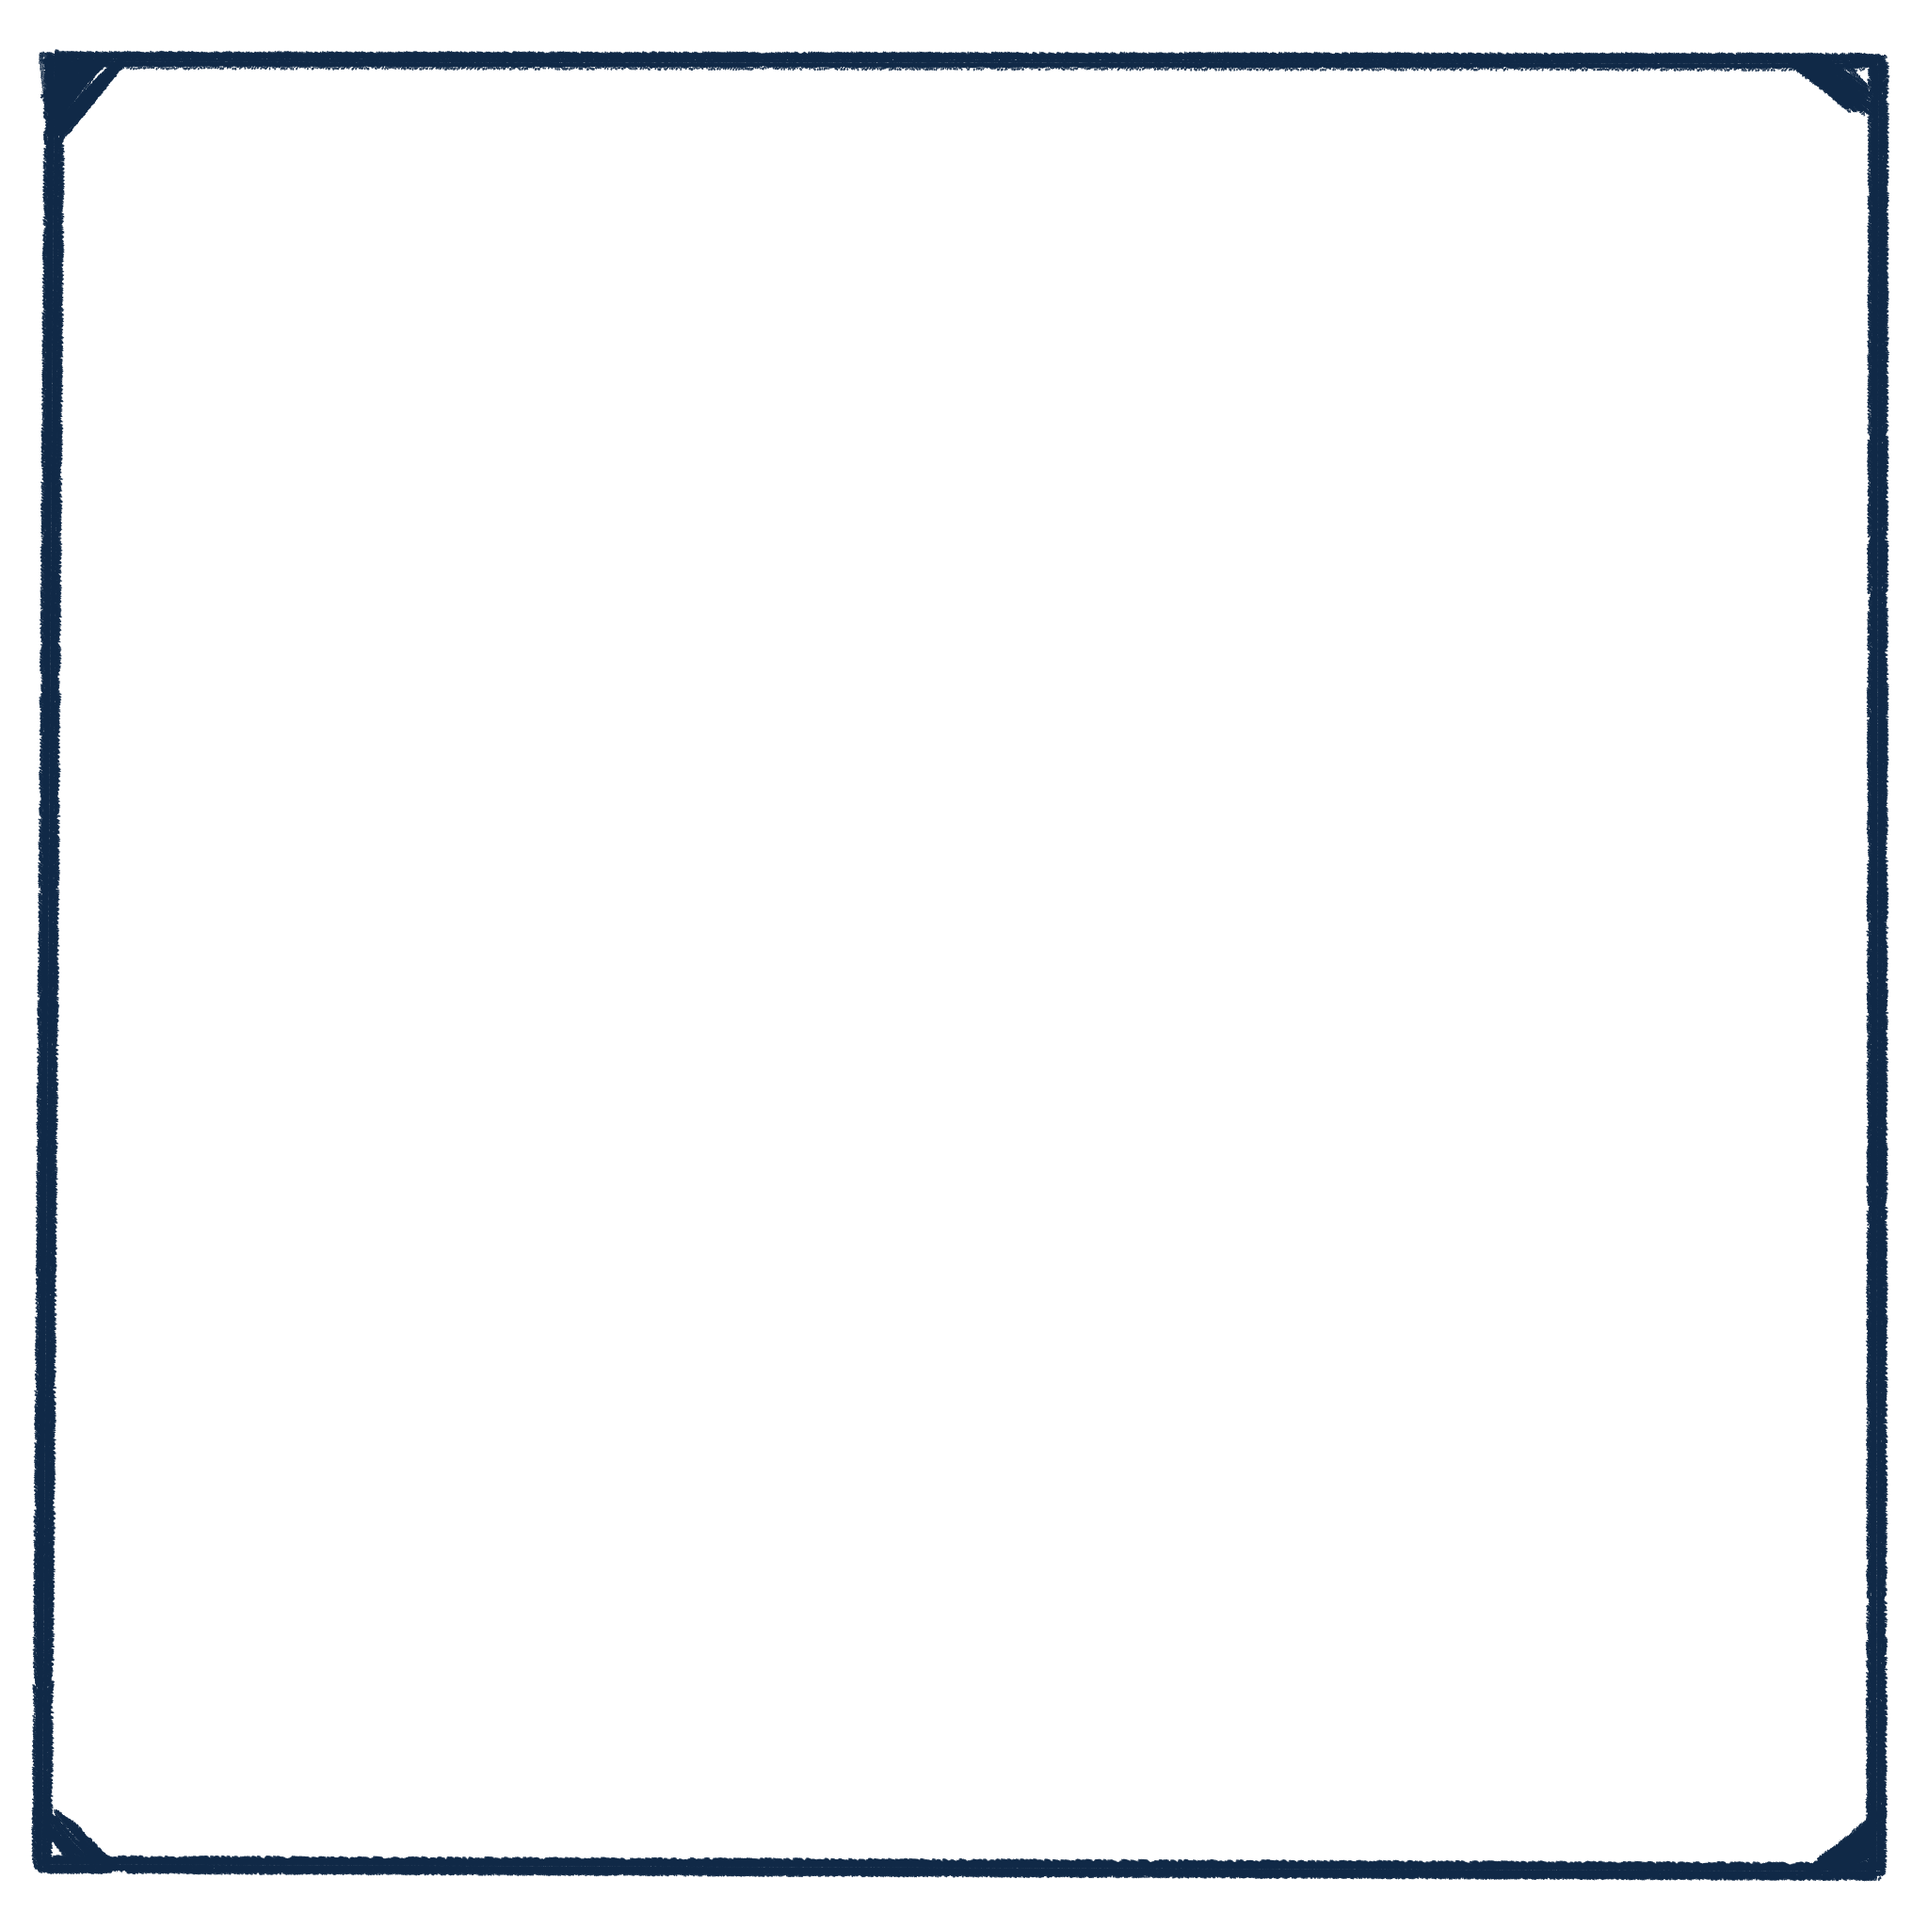
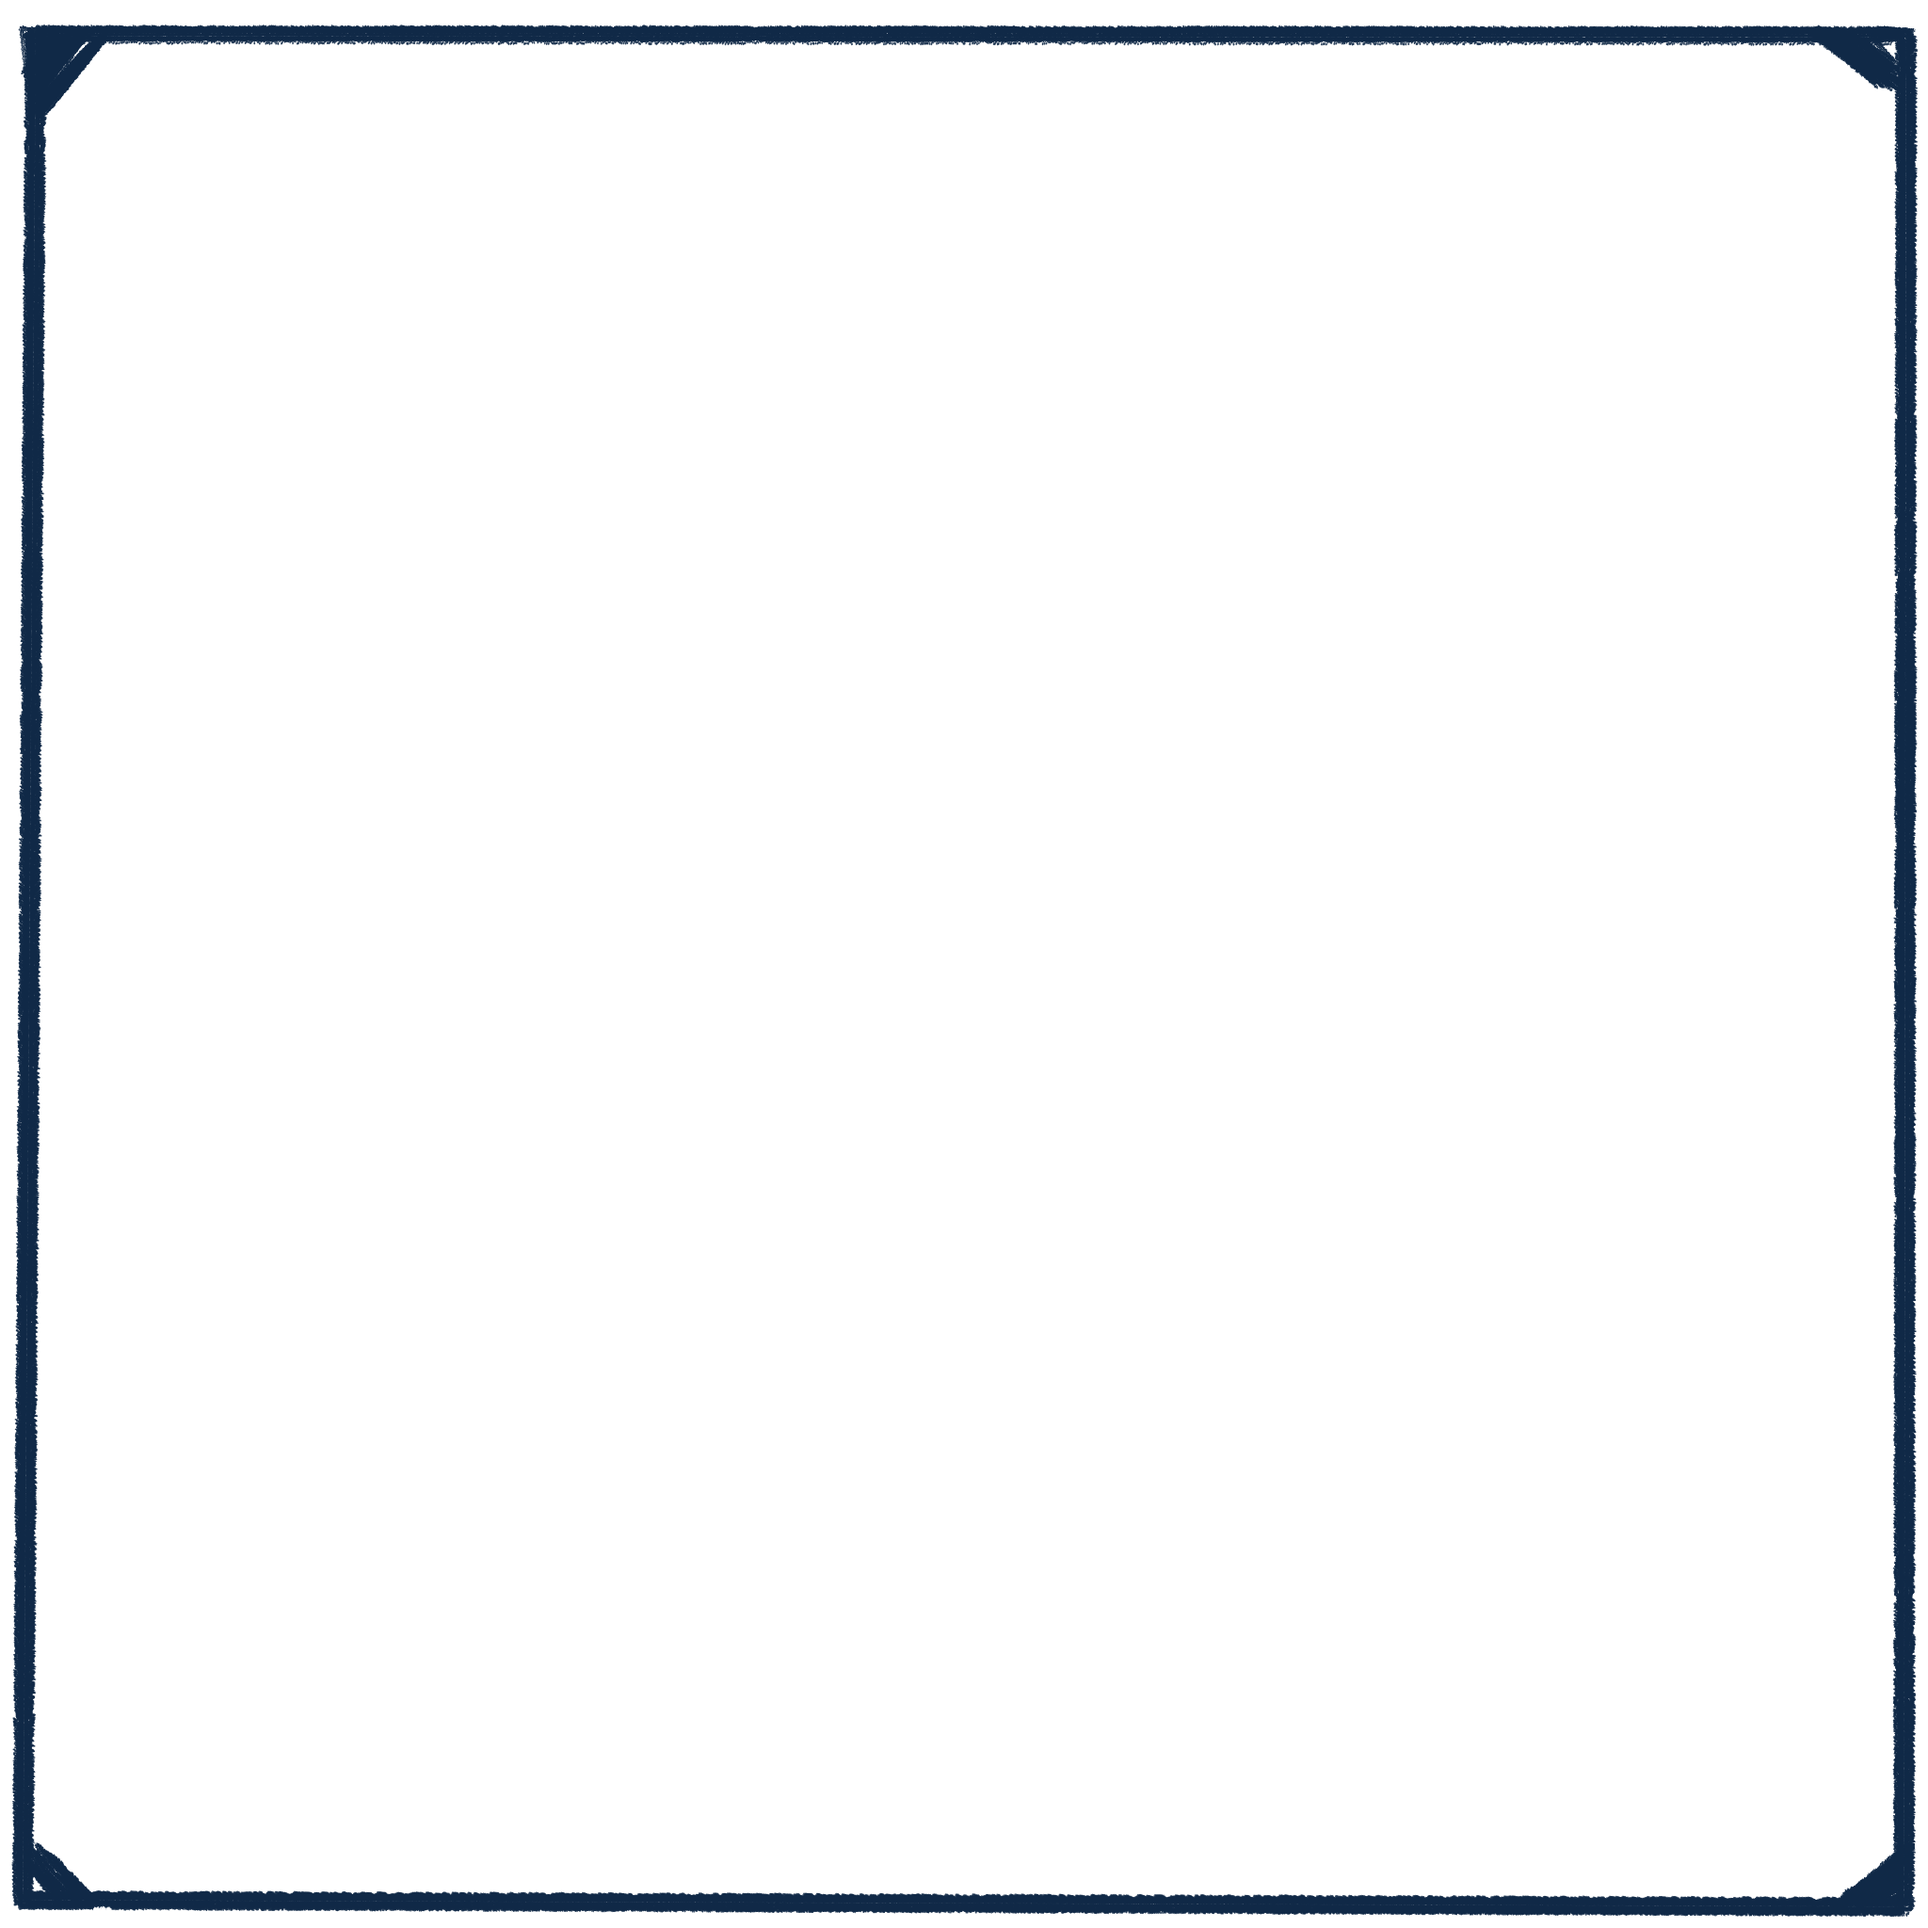
added water level

Changed region(s): [[0.0, 0.0, 1.0, 1.0]]

diff --git a/game.js b/game.js
@@ -11,7 +11,7 @@ const STATUS_Y_OFFSET = 30;
 
 // Game rules
 const MAX_BUGS_ON_SCREEN = 20;
-const MAX_ESCAPED_CATS = 20;
+const MAX_ESCAPED_CATS = 40; // 40 / 2 * 5% = 100% — вода заливает поле
 
 // Bug visuals
 const IMAGE_SCALE = 2.1875;   // базовый скейл ботинка
@@ -22,7 +22,7 @@ const ROTATE_DEG = 30;        // ±30 градусов
 // Spawn speed (geometric progression)
 const SPAWN_INTERVAL_START_MS = 900;
 const SPAWN_INTERVAL_MULTIPLIER = 0.970; // ближе к 1.0 = медленнее ускоряется
-const SPAWN_INTERVAL_MIN_MS = 150;
+const SPAWN_INTERVAL_MIN_MS = 250;
 const CLICK_SPEEDUP_FACTOR = 0.968;
 
 // Defeat image sizing
@@ -34,6 +34,9 @@ const DEFEAT_IMG_Y_OFFSET = 0;
 const DEFEAT_SRC = "assets/defeat.png";
 const CAT_COUNT = 5;
 const CAT_PREFIX = "assets/cat";
+const WATER_LEVEL_SRC = "assets/Water_level.png";
+const WATER_LEVEL_TOP_SRC = "assets/Water_level_top.png";
+const WATER_LEVEL_STEP = 0.05;   // +5% высоты канваса за каждых 2 пропущенных кота
 
 /* =========================
    GAME STATE
@@ -49,18 +52,25 @@ let gameOver = false;
 let escapedCats = 0;
 let lastCatIndex = -1;
 
+// water level animation
+let waterCurrentY = canvas.height; // текущая Y позиция (верх изображения)
+let waterTargetY  = canvas.height; // целевая Y позиция
+let waveClock     = 0;             // время для покачивания верхнего слоя
+
 // spawn control
 let spawnInterval = SPAWN_INTERVAL_START_MS;
 let spawnTimerId = null;
 
 // preload
+const waterLevelImg = new Image();
+const waterLevelTopImg = new Image();
 const defeat = new Image();
 const defeat1 = new Image();
 let defeatAltFrame = false;
 let hoverDefeat = false;
 const cats = [];
 
-let assetsToLoad = 2 + CAT_COUNT; // defeat + defeat1 + cats
+let assetsToLoad = 4 + CAT_COUNT; // waterLevel + waterLevelTop + defeat + defeat1 + cats
 let assetsLoaded = 0;
 let readyToStart = false;
 
@@ -117,6 +127,9 @@ function resetRunState(){
   gameOver = false;
   escapedCats = 0;
   lastCatIndex = -1;
+  waterCurrentY = canvas.height;
+  waterTargetY  = canvas.height;
+  waveClock     = 0;
 
   spawnInterval = SPAWN_INTERVAL_START_MS;
   stopSpawning();
@@ -168,6 +181,14 @@ function stopLoadingDots(){
     loadingDotsTimerId = null;
   }
 }
+
+waterLevelImg.onload = markLoaded;
+waterLevelImg.onerror = markLoaded;
+waterLevelImg.src = WATER_LEVEL_SRC;
+
+waterLevelTopImg.onload = markLoaded;
+waterLevelTopImg.onerror = markLoaded;
+waterLevelTopImg.src = WATER_LEVEL_TOP_SRC;
 
 defeat.onload = markLoaded;
 defeat.onerror = markLoaded;
@@ -221,6 +242,8 @@ function spawnBug(){
 
   // базовый размер с jitter ±20%
   const baseSize = Math.max(10, Math.floor(BASE_BUG_SIZE * IMAGE_SCALE));
+  const sizeMin = Math.floor(baseSize * (1 - SIZE_JITTER));
+  const sizeMax = Math.floor(baseSize * (1 + SIZE_JITTER));
   const size = Math.max(10, Math.floor(baseSize * randf(1 - SIZE_JITTER, 1 + SIZE_JITTER)));
 
   // угол ±30°
@@ -235,12 +258,14 @@ function spawnBug(){
   const img = cats[catIndex];
 
   // позиция так, чтобы не вылезало (с учётом size)
- const x = Math.random() * (canvas.width - size);
+  const x = Math.random() * (canvas.width - size);
 
-/* появляется немного выше поля */
-const y = -size;
+  /* появляется немного выше поля */
+  const y = -size;
 
-const vy = randf(2.5, 4.5);  // скорость падения
+  // чем больше кот, тем быстрее падает
+  const t = (size - sizeMin) / (sizeMax - sizeMin);
+  const vy = 2.5 + t * 2.0;
 
 bugs.push({ x, y, size, img, rot, vy });
 }
@@ -329,27 +354,23 @@ canvas.addEventListener("touchstart", (e) => {
 
 function clearField(){
   ctx.clearRect(0,0,canvas.width, canvas.height);
-  ctx.fillStyle = "rgba(210,220,238,0.85)";
+  ctx.fillStyle = "rgba(239,243,249,0.85)";
   ctx.fillRect(0,0,canvas.width, canvas.height);
 }
 
 function drawHUD(){
   const hx = canvas.width * 0.02 + 14;
   const hy = canvas.height * 0.02;
-  const scoreY  = 32 + hy;
-  const escapedY = 56 + hy;
+  const scoreY = 32 + hy;
 
-  // measure text widths to size the background pill
   ctx.font = "28px 'Fredoka One', cursive";
   const scoreW = ctx.measureText(`Score: ${score}`).width;
-  ctx.font = "18px 'Fredoka One', cursive";
-  const escapedW = ctx.measureText(`Escaped: ${escapedCats}/${MAX_ESCAPED_CATS}`).width;
 
   const padX = 10, padY = 7;
   const boxX = hx - padX;
-  const boxY = scoreY - 22 - padY;           // ~cap-height above score baseline
-  const boxW = Math.max(scoreW, escapedW) + padX * 2;
-  const boxH = (escapedY - scoreY + 18) + padY + (padY + 4);  // span both lines + padding
+  const boxY = scoreY - 22 - padY;
+  const boxW = scoreW + padX * 2;
+  const boxH = 22 + padY * 2 + 4;
 
   ctx.fillStyle = "rgba(255,255,255,0.52)";
   ctx.beginPath();
@@ -365,13 +386,47 @@ function drawHUD(){
   ctx.textAlign = "left";
   ctx.fillText(`Score: ${score}`, hx, scoreY);
 
-  ctx.fillStyle = "#254160";
-  ctx.font = "18px 'Fredoka One', cursive";
-  ctx.fillText(`Escaped: ${escapedCats}/${MAX_ESCAPED_CATS}`, hx, escapedY);
   ctx.shadowColor = "transparent";
   ctx.shadowOffsetX = 0;
   ctx.shadowOffsetY = 0;
   ctx.shadowBlur = 0;
+}
+
+function drawWaterLevel(){
+  if(!waterLevelImg.complete || waterLevelImg.naturalWidth === 0) return;
+
+  const imgH = waterLevelImg.naturalHeight * (canvas.width / waterLevelImg.naturalWidth);
+
+  // целевая Y: изображение двигается вверх целиком
+  const steps = Math.floor(escapedCats / 2);
+  const rawTarget = canvas.height - steps * WATER_LEVEL_STEP * canvas.height;
+
+  // cap: верх изображения не уходит выше чем 120% его высоты от низа канваса
+  waterTargetY = Math.max(rawTarget, canvas.height - imgH * 1.2);
+
+  // плавный лерп к цели
+  waterCurrentY += (waterTargetY - waterCurrentY) * 0.04;
+
+  if(waterCurrentY >= canvas.height) return; // ещё не видна
+
+  ctx.save();
+  ctx.globalCompositeOperation = 'multiply';
+  ctx.beginPath();
+  ctx.rect(0, 0, canvas.width, canvas.height);
+  ctx.clip();
+  ctx.drawImage(waterLevelImg, 0, waterCurrentY, canvas.width, imgH);
+  if(waterLevelTopImg.complete && waterLevelTopImg.naturalWidth > 0){
+    const scale   = 1.2;
+    const topImgW = canvas.width * scale;
+    const topImgH = waterLevelTopImg.naturalHeight * (topImgW / waterLevelTopImg.naturalWidth);
+    // покачивание ±5% ширины канваса
+    waveClock += 0.0135; // на 25% медленнее (0.018 * 0.75)
+    const waveX   = Math.sin(waveClock) * canvas.width * 0.05;
+    const topImgX = -(topImgW - canvas.width) / 2 + waveX;
+    const topImgY = waterCurrentY - canvas.height * 0.10; // на 10% выше основного уровня
+    ctx.drawImage(waterLevelTopImg, topImgX, topImgY, topImgW, topImgH);
+  }
+  ctx.restore();
 }
 
 function drawBug(b){
@@ -396,7 +451,8 @@ function drawBugs(){
     if(b.y > canvas.height){
       bugs.splice(i, 1);
       escapedCats++;
-      if(escapedCats >= MAX_ESCAPED_CATS && !gameOver){
+      const waterFill = Math.floor(escapedCats / 2) * WATER_LEVEL_STEP;
+      if(waterFill >= 1.0 && !gameOver){
         gameOver = true;
         stopSpawning();
         if(countdownTimerId) clearInterval(countdownTimerId);
@@ -471,9 +527,10 @@ function loop(){
   clearField();
 
   if(!gameOver){
-  
+
     if(readyToStart && !countdownActive){
       drawBugs();
+      drawWaterLevel();
       drawHUD();
     } else {
       drawCenterOverlay();
@@ -481,6 +538,7 @@ function loop(){
     }
   } else {
     drawBugs();
+    drawWaterLevel();
     drawHUD();
     drawGameOver();
   }

diff --git a/style.css b/style.css
@@ -87,26 +87,16 @@ body{
   box-shadow: 0 10px 30px rgba(0,0,0,0.35);
 }
 
-/* border ornament rendered on top of the canvas so it overlaps the edges */
-.canvasFrame.border-alt::after{
-  border-image-source: url("assets/border-image1.png");
-}
-
-.canvasFrame::after{
-  content: '';
+/* border ornament — обычная картинка поверх канваса */
+.borderImg{
   position: absolute;
-  inset: 0;
+  top: clamp(-13px, -1.8vw, -7px);
+  left: clamp(-13px, -1.8vw, -7px);
+  width: calc(100% + clamp(14px, 3.6vw, 26px));
+  height: calc(100% + clamp(14px, 3.6vw, 26px));
   pointer-events: none;
   z-index: 5;
-
-  border-style: solid;
-  border-color: transparent;
-  border-width: clamp(18px, 2.5vw, 26px);
-  border-image-source: url("assets/border-image.png");
-  border-image-slice: 15%;
-  border-image-width: clamp(48px, 10vw, 72px);
-  border-image-outset: clamp(0px, 1.8vw, 13px);
-  border-image-repeat: stretch;
+  display: block;
 }
 
 /* canvas fills the frame exactly */
@@ -136,6 +126,11 @@ canvas{
 
   h1{
     font-size: clamp(28px, 8vw, 52px);
+  }
+
+  /* iOS Safari: fixed background ломает compositing дочерних элементов */
+  body{
+    background-attachment: scroll;
   }
 
 }

diff --git a/index.html b/index.html
@@ -23,14 +23,18 @@
     <div class="gameArea">
       <div class="canvasFrame">
         <canvas id="game" width="720" height="720"></canvas>
+        <img class="borderImg" src="assets/border-image.png" alt="" />
       </div>
     </div>
   </div> <!-- ВАЖНО: закрыли wrap -->
 
   <script src="game.js"></script>
   <script>
+    const _borderSrcs = ['assets/border-image.png', 'assets/border-image1.png'];
+    let _borderFrame = 0;
     setInterval(() => {
-      document.querySelector('.canvasFrame').classList.toggle('border-alt');
+      _borderFrame = 1 - _borderFrame;
+      document.querySelector('.borderImg').src = _borderSrcs[_borderFrame];
     }, 600);
   </script>
 </body>
